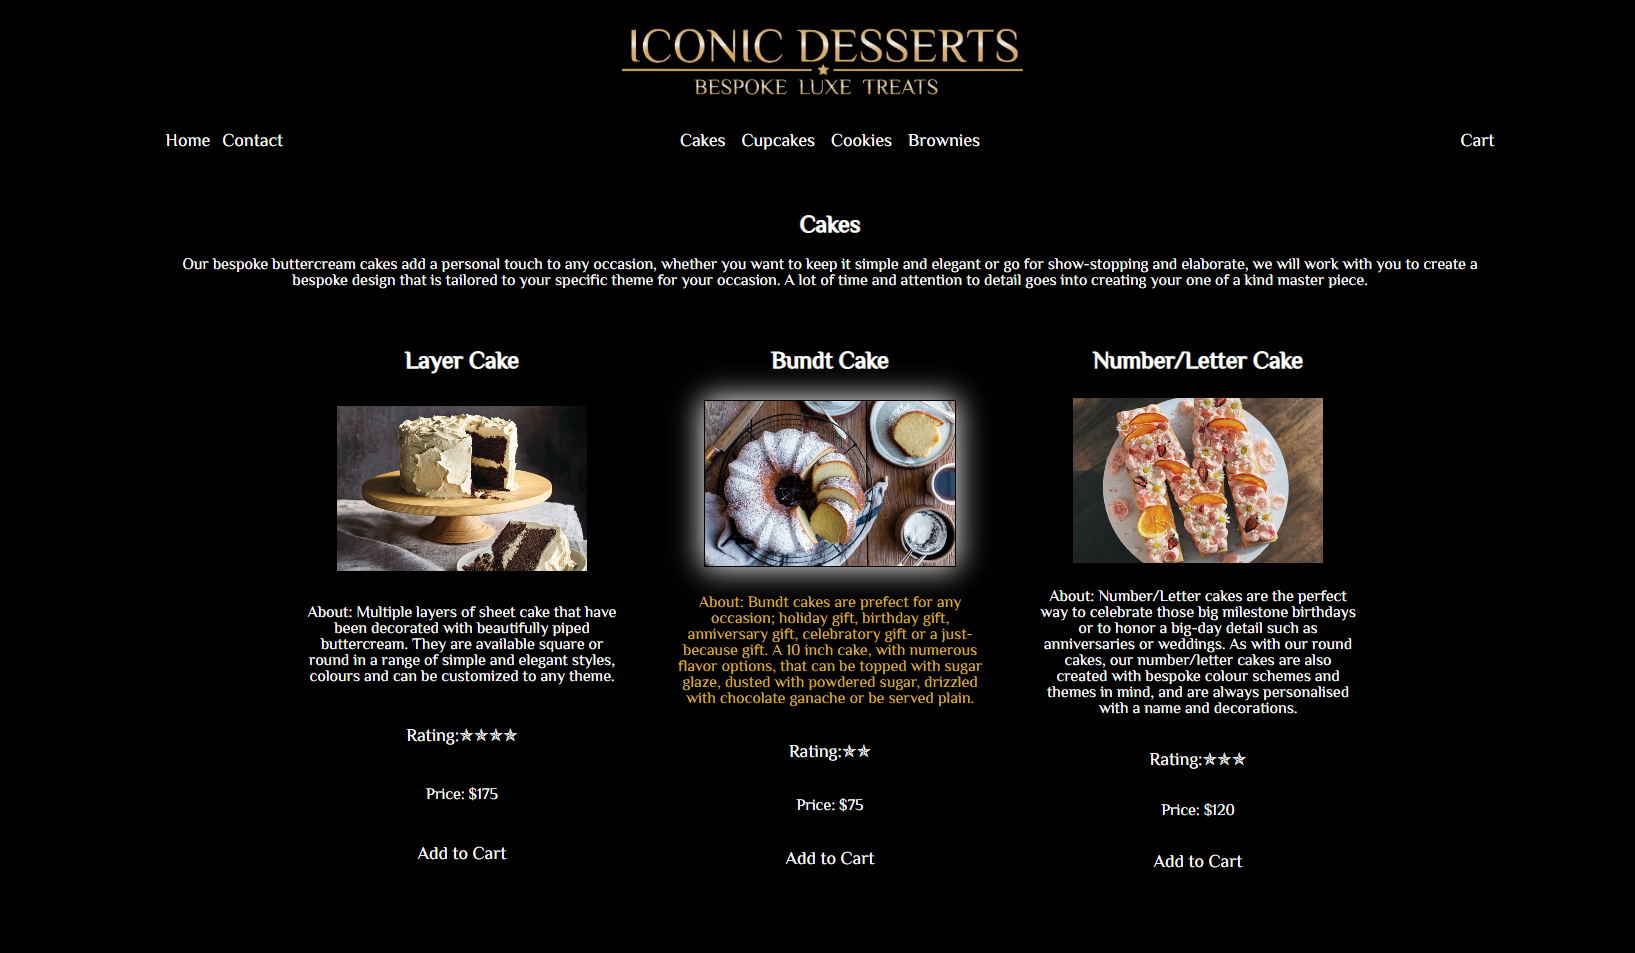
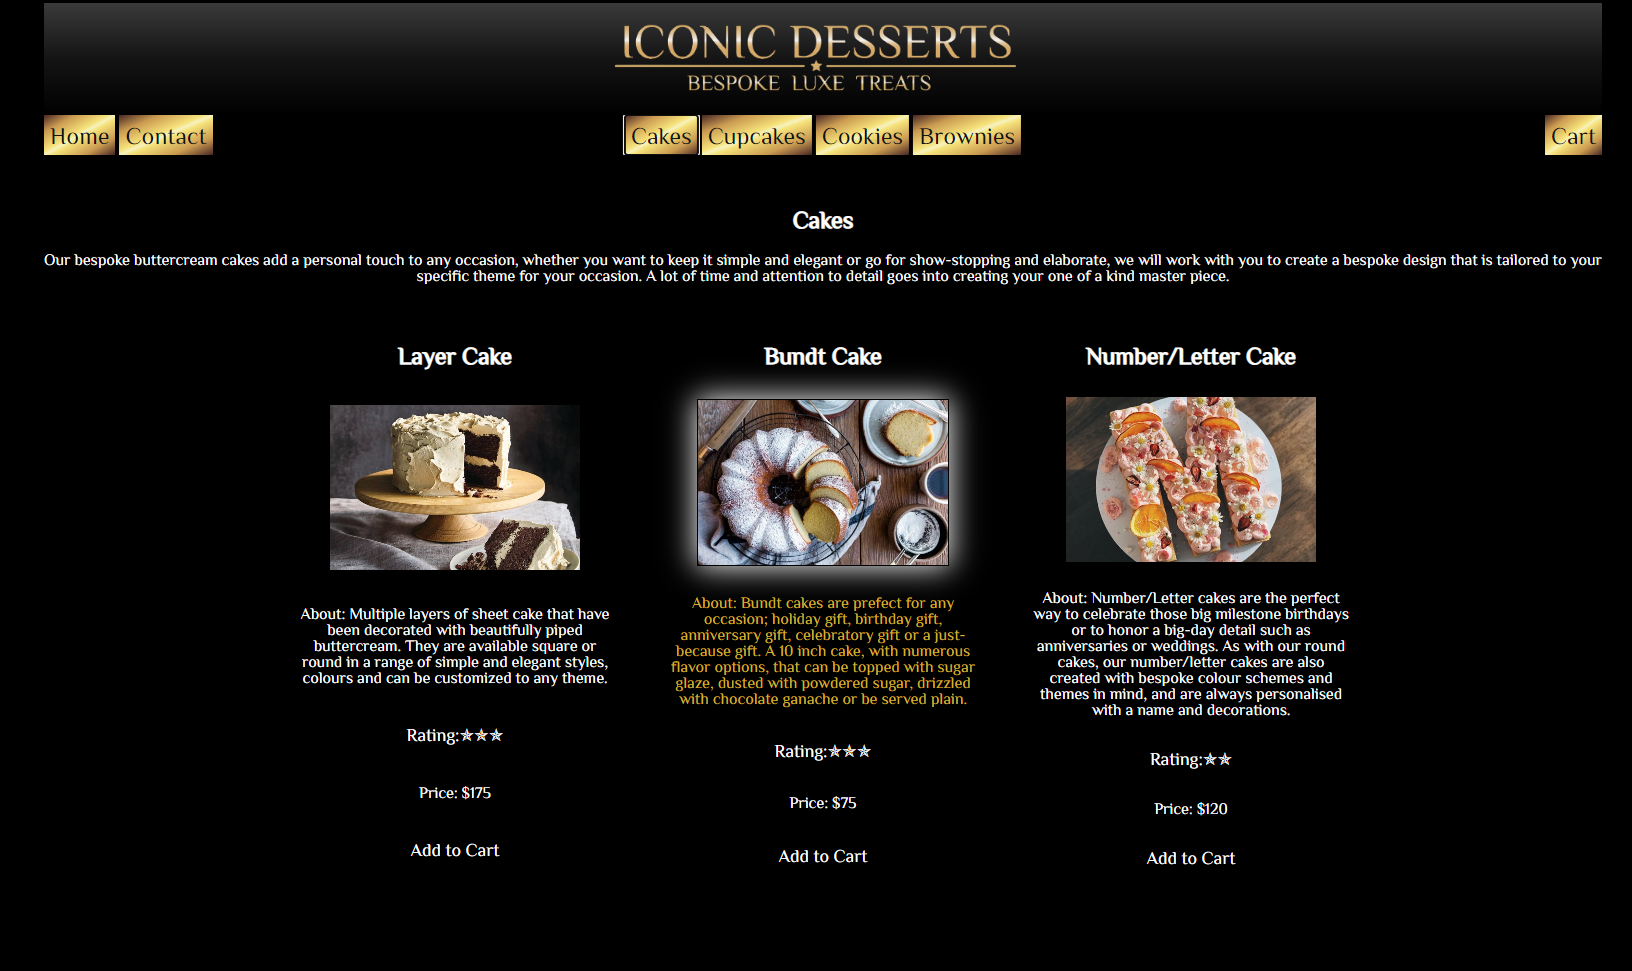
changes made to style.css

diff --git a/style.css b/style.css
@@ -5,7 +5,6 @@
 
 body {
     background-color: black;
-    background-repeat: no-repeat;
     font-family: XiaoWei;
     color: #ffffff;
     margin-left: 10%;
@@ -14,6 +13,10 @@ body {
 
 .buffer {
     padding: 1rem;
+}
+
+.head {
+    background-image: linear-gradient(#3a3a3a, #141414, #000000);
 }
 
 #logo {
@@ -29,10 +32,22 @@ body {
 .nav {
     position: relative;
     overflow: hidden;
+    background-color: #000000;
 }
 
 .nav button {
-    float: left;
+    background-image: linear-gradient(to bottom right, #462523 0, #cb9b51 22%, #f6e27a 45%, #f6f2c0 50%, #f6e27a 55%, #cb9b51 78%, #462523 100%);
+    color: #141414;
+    font-family: XiaoWei;
+    height: 2.5rem;
+    border: none;
+    font-weight: 550;
+    font-size: 1.5rem;
+}
+
+.nav button:hover {
+    background-image: linear-gradient(to bottom right, #462523 5%, #cb9b51 25%, #f6e27a 40%, #f6f2c0 30%, #f6e27a 55%, #cb9b51 78%, #462523 100%);
+    font-weight: 900;
 }
 
 .center {
@@ -55,12 +70,17 @@ button {
     color: white;
     font-family: XiaoWei;
     border: none;
-    height: 2.5rem;
-    font-size: 18px;    
+    height: 2rem;
+    font-size: 18px;
+    width: fit-content;
+    justify-self: center;
 }
 
 button:hover {
     background-color: #d4af37;
+    color: #000000;
+    font-weight: 600;
+
 }
 
 #home {
@@ -69,6 +89,7 @@ button:hover {
     margin-right: 20%;
     padding-bottom: 1rem;
 }
+
 .pastry-item {
     text-align: center;
     padding: .5rem;
